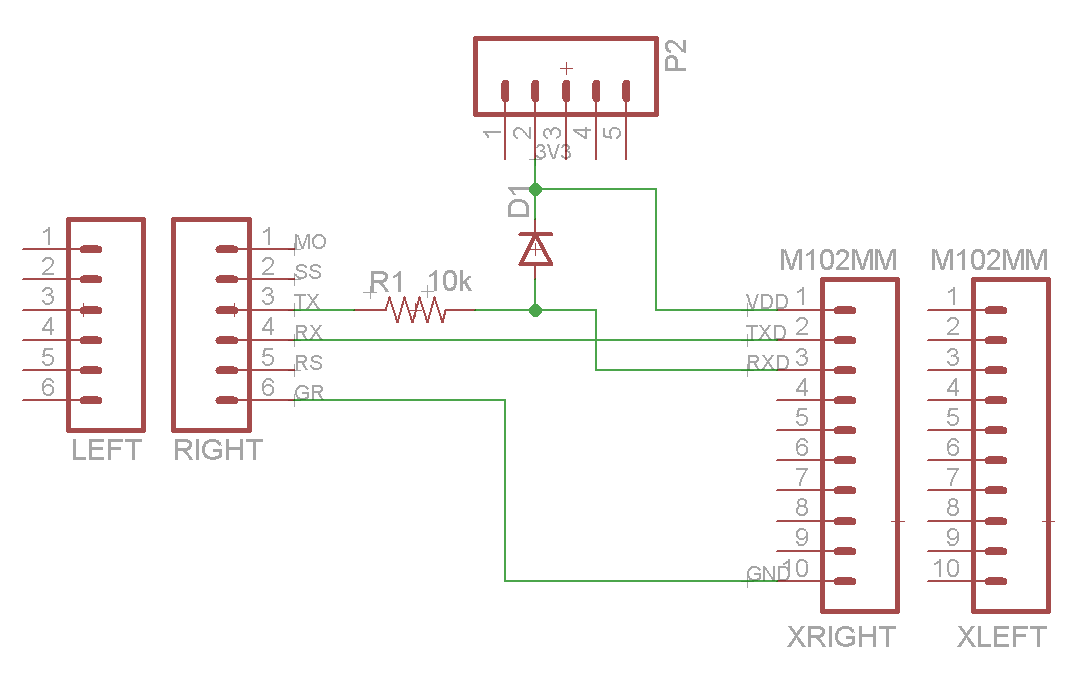
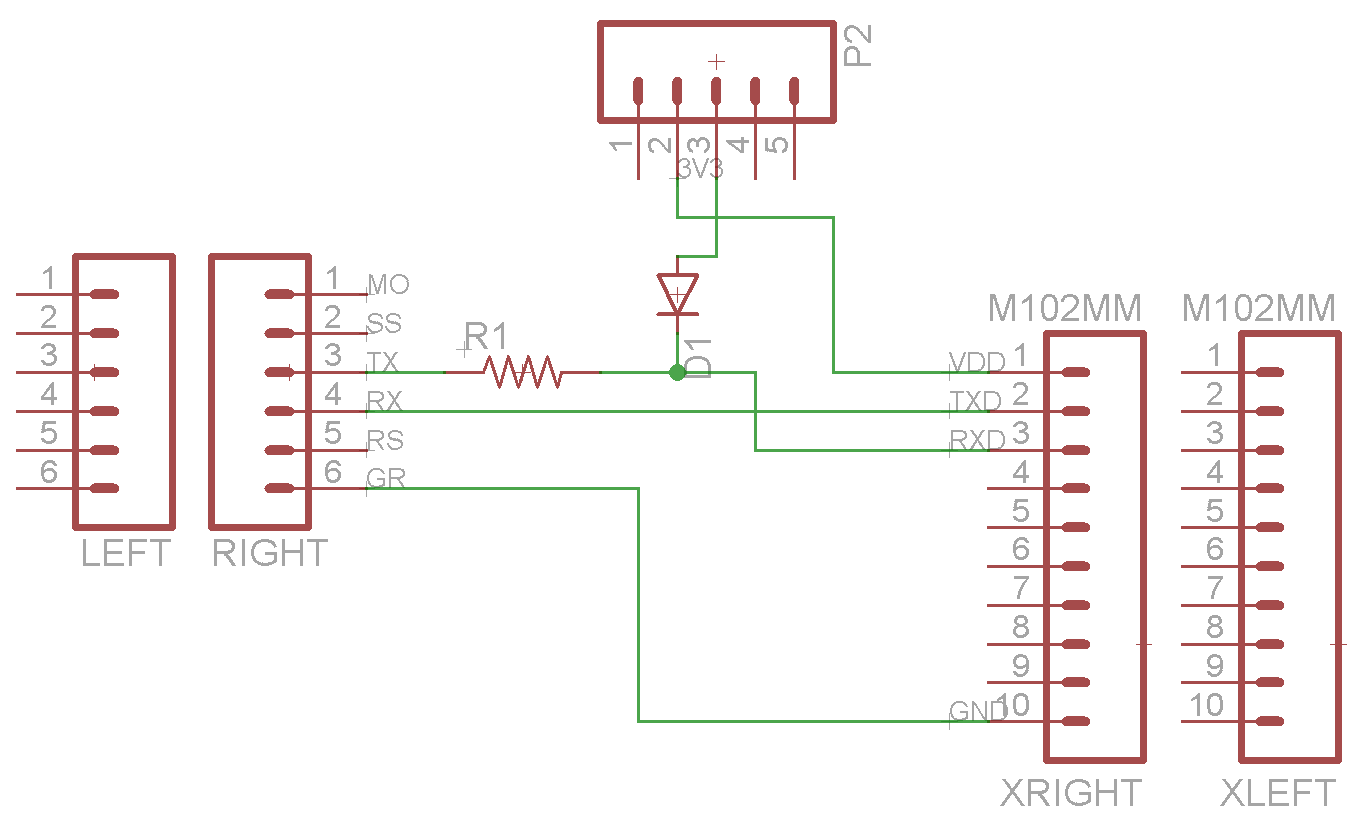
Added some hardware studd about the 3D printed models, and the bluetoothmodule

Changed region(s): [[0.0, 0.0, 0.9982, 0.9956]]

diff --git a/development/hardware.tex b/development/hardware.tex
@@ -1,1 +1,82 @@
 \chapter{Hardware}\label{ch:hardware}
+The hardware part of the project consisted of initially three separate parts, a drawing contraptions, a battery holder, and a bluetooth shield. 
+In the final version of the robot we ended up not using the battery holder due to problems with the manufacturing hardware. 
+In this chapter we will first present the chassis modification, before moving on to present the circuitry needed for the bluetooth module. 
+
+\section{Chassis modifications}
+The problem we initially underestimated was how we should make the physical robot draw on paper. While a front or back mounted pen would be an easy solution this would not create the angles properly, and thus was not a real viable options. The clearence below the robot was to small for anything to fit underneath it, and the battery was placed in such a way that nothing could fit between the wheels of the robot (see figure~\ref{fig:robotUnder}). In order to fix this problem we designed a batteryholder which could be mounted on top of the robot (see figure~\ref{fig:batteryHolder}), but due to techinical problems witht the 3D printes we were not able to test this design. And we had to resort to an alternative solution using velcro to position the battery at the back of the robot and duct tape to add a counterweight at the front of the robot to provide stability (see figures in~\ref{fig:robot}). 
+
+\bigskip\noindent
+While this solved the problem of making room beneath the robot we still had multiple issues with getting the robot to draw properly. These issues were mainly due to inaccuracies in the 3D-printing environment meaning the the spring used to push the drawing tip into the paper would get snagged inside its container (figures~\ref{fig:pencilHolder} and~\ref{fig:pencilHolderReal}).
+
+
+\begin{figure}[H]
+	\centering
+	\subfloat[Battery holder\label{fig:batteryHolder}]{
+		\includegraphics[width=0.4\linewidth]{images/BatteryHolder.JPG}
+	}
+	\subfloat[Pencil holder\label{fig:pencilHolder}]{
+		\includegraphics[width=0.4\linewidth]{images/PencilHolder.JPG}
+	}\\
+	\subfloat[Printed pencil holder\label{fig:pencilHolderReal}]{
+		\includegraphics[width=0.4\linewidth]{images/penHolder.png}
+	}
+	\caption{3D printed utilities}
+	\label{fig:3d}
+\end{figure}
+\begin{figure}[H]
+	\centering
+	\subfloat[Front of robot\label{fig:robotFront}]{
+		\includegraphics[width=0.4\linewidth]{images/robotFront.png}
+	}
+	\subfloat[Back of robot\label{fig:robotBack}]{
+		\includegraphics[width=0.4\linewidth]{images/robotBack.png}
+	}\\
+	\subfloat[Underside of robot\label{fig:robotUnder}]{
+		\includegraphics[width=0.4\linewidth]{images/robotUnder.png}
+	}
+	\subfloat[Robot drawing an angle\label{fig:robotDrawing}]{
+		\includegraphics[width=0.4\linewidth]{images/robotDrawing.png}
+	}
+	\caption{Pictures of the robot}
+	\label{fig:robot}
+\end{figure}
+
+\section{Bluetooth circuit board}
+The \chirp team had previously tested using bluetooth communication between an android device and the robot. We therefore got help in creating the inital circuitry for our bluetooth module(figure~\ref{fig:circuitDrawing}). This drawing was at this point designed in the Eagle software in order to make it possible to produce at a later stage(~\ref{fig:circuitDesign}). 
+
+\bigskip\noindent
+The basic functionality of the circuit is to create a mapping between the receiver (\textbf{RX}) and transmission (\textbf{TX}) signals on the arduino and bluetooth module. In addition to the data signals the circuit board needed to map a 3.3V power supply (\textbf{VDD}) and a ground connection (\textbf{GND}) to the bluetooth module (see schematic in figure~\ref{fig:bluetoothSchematic}).
+
+\image{images/schematicBluetooth2.PNG}{\linewidth}{Schematic of the bluetooth shield. Components on the right is the bluetooth module.}{fig:bluetoothSchematic}
+
+\bigskip\noindent
+As seen in figure~\ref{fig:bluetoothSchematic} we used a two components between the arduino TX signal and the bluetooth module RX (a 220$\Omega$ resistor and 3.3V zener diode). This was because the arduino operates on 5V, while the bluetooth module expected only 3.3V. Mapping these directly would most likely result in the destruction of the module. It should here be noted that the schematic does in show a normal diode, but the circuit is design for a zener diode and using a normal diode would not work.
+
+\bigskip\noindent
+It can be seen in figure~\ref{fig:circuitProto} that some soldering around the board was necessary on the prototype. The prototype did however lead us to conclude that the circuit itself was functional and we were able to proceed with creating all the circuit boards that we needed. 
+Figure~\ref{fig:circuitTrans} shows the template used in the etching process when creating these boards. While figure~\ref{fig:circuitboard} shows the circuit board alongside with the bluetooth module we used for our robots. The complete assembly of the robot can be seen in figure~\ref{fig:robotDrawing}.
+
+\begin{figure}[!htb]
+	\centering
+	\subfloat[Inital circuit\label{fig:circuitDrawing}]{
+		\includegraphics[width=0.4\linewidth]{images/bluetoothCircuit.png}
+	}
+	\subfloat[Created in circuit designer\label{fig:circuitDesign}]{
+		\includegraphics[width=0.4\linewidth]{images/circuitDrawing.PNG}
+	}\\
+	\subfloat[Prototype template\label{fig:circuitProtoTrans}]{
+		\includegraphics[width=0.4\linewidth]{images/bluetoothProtoTrans.png}
+	}
+	\subfloat[Prototype circuitboard\label{fig:circuitProto}]{
+		\includegraphics[width=0.4\linewidth]{images/bluetoothProto.png}
+	}\\
+	\subfloat[Finished template\label{fig:circuitTrans}]{
+		\includegraphics[width=0.4\linewidth]{images/bluetoothTrans.png}
+	}
+	\subfloat[Finished circuitboard\label{fig:circuitboard}]{
+		\includegraphics[width=0.4\linewidth]{images/bluetooth.png}
+	}
+	\caption{Circuit boards}
+	\label{fig:circuit}
+\end{figure}
